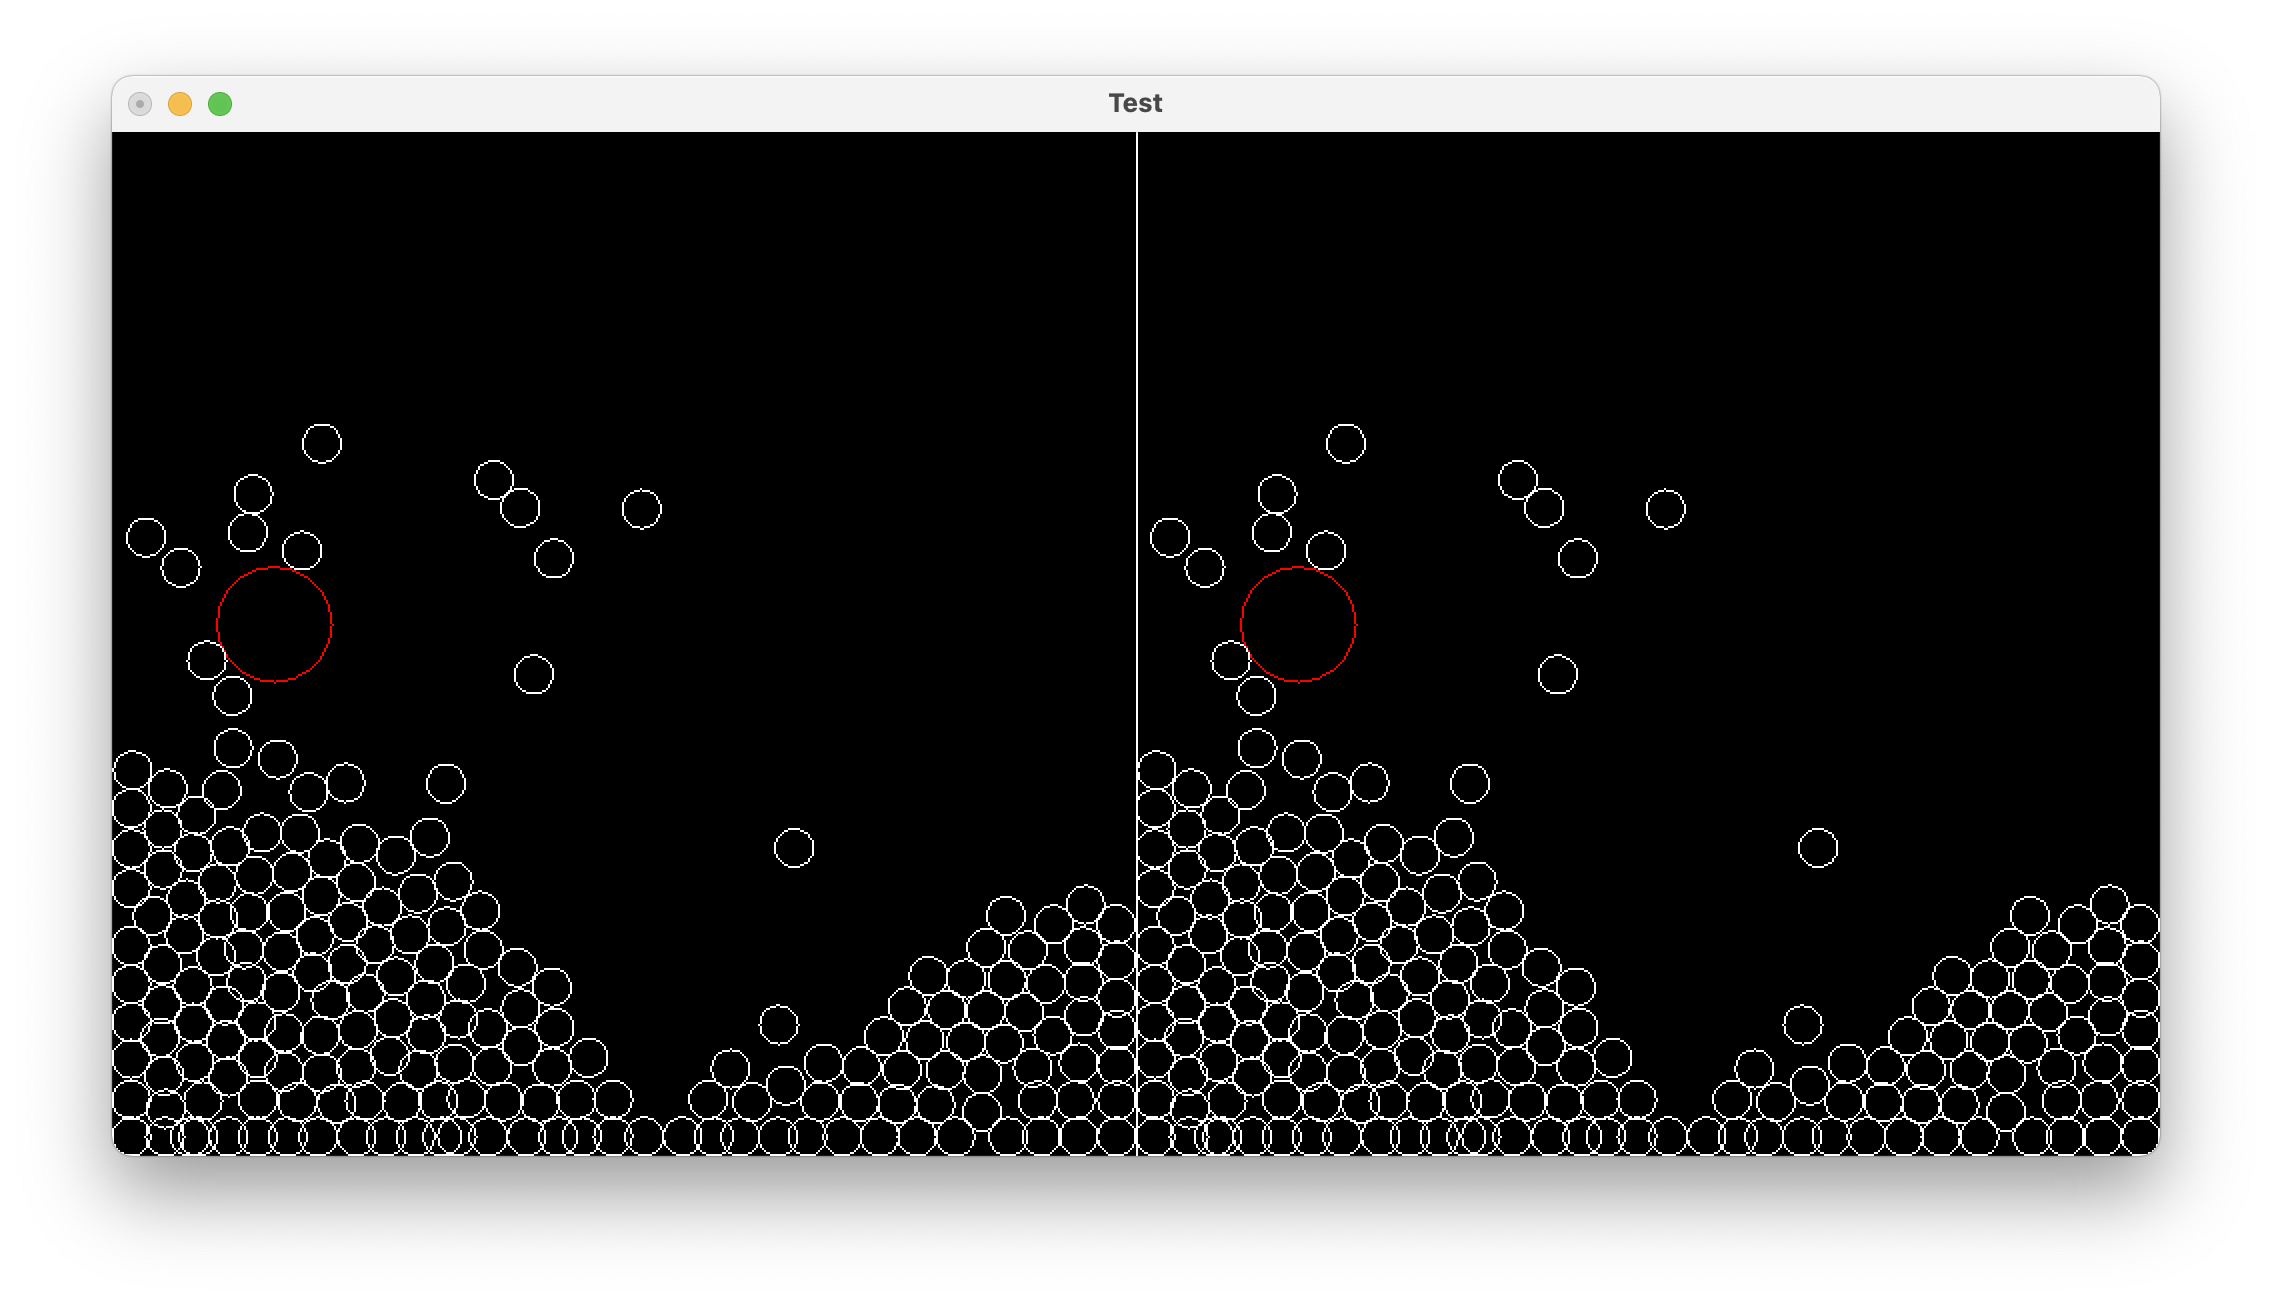
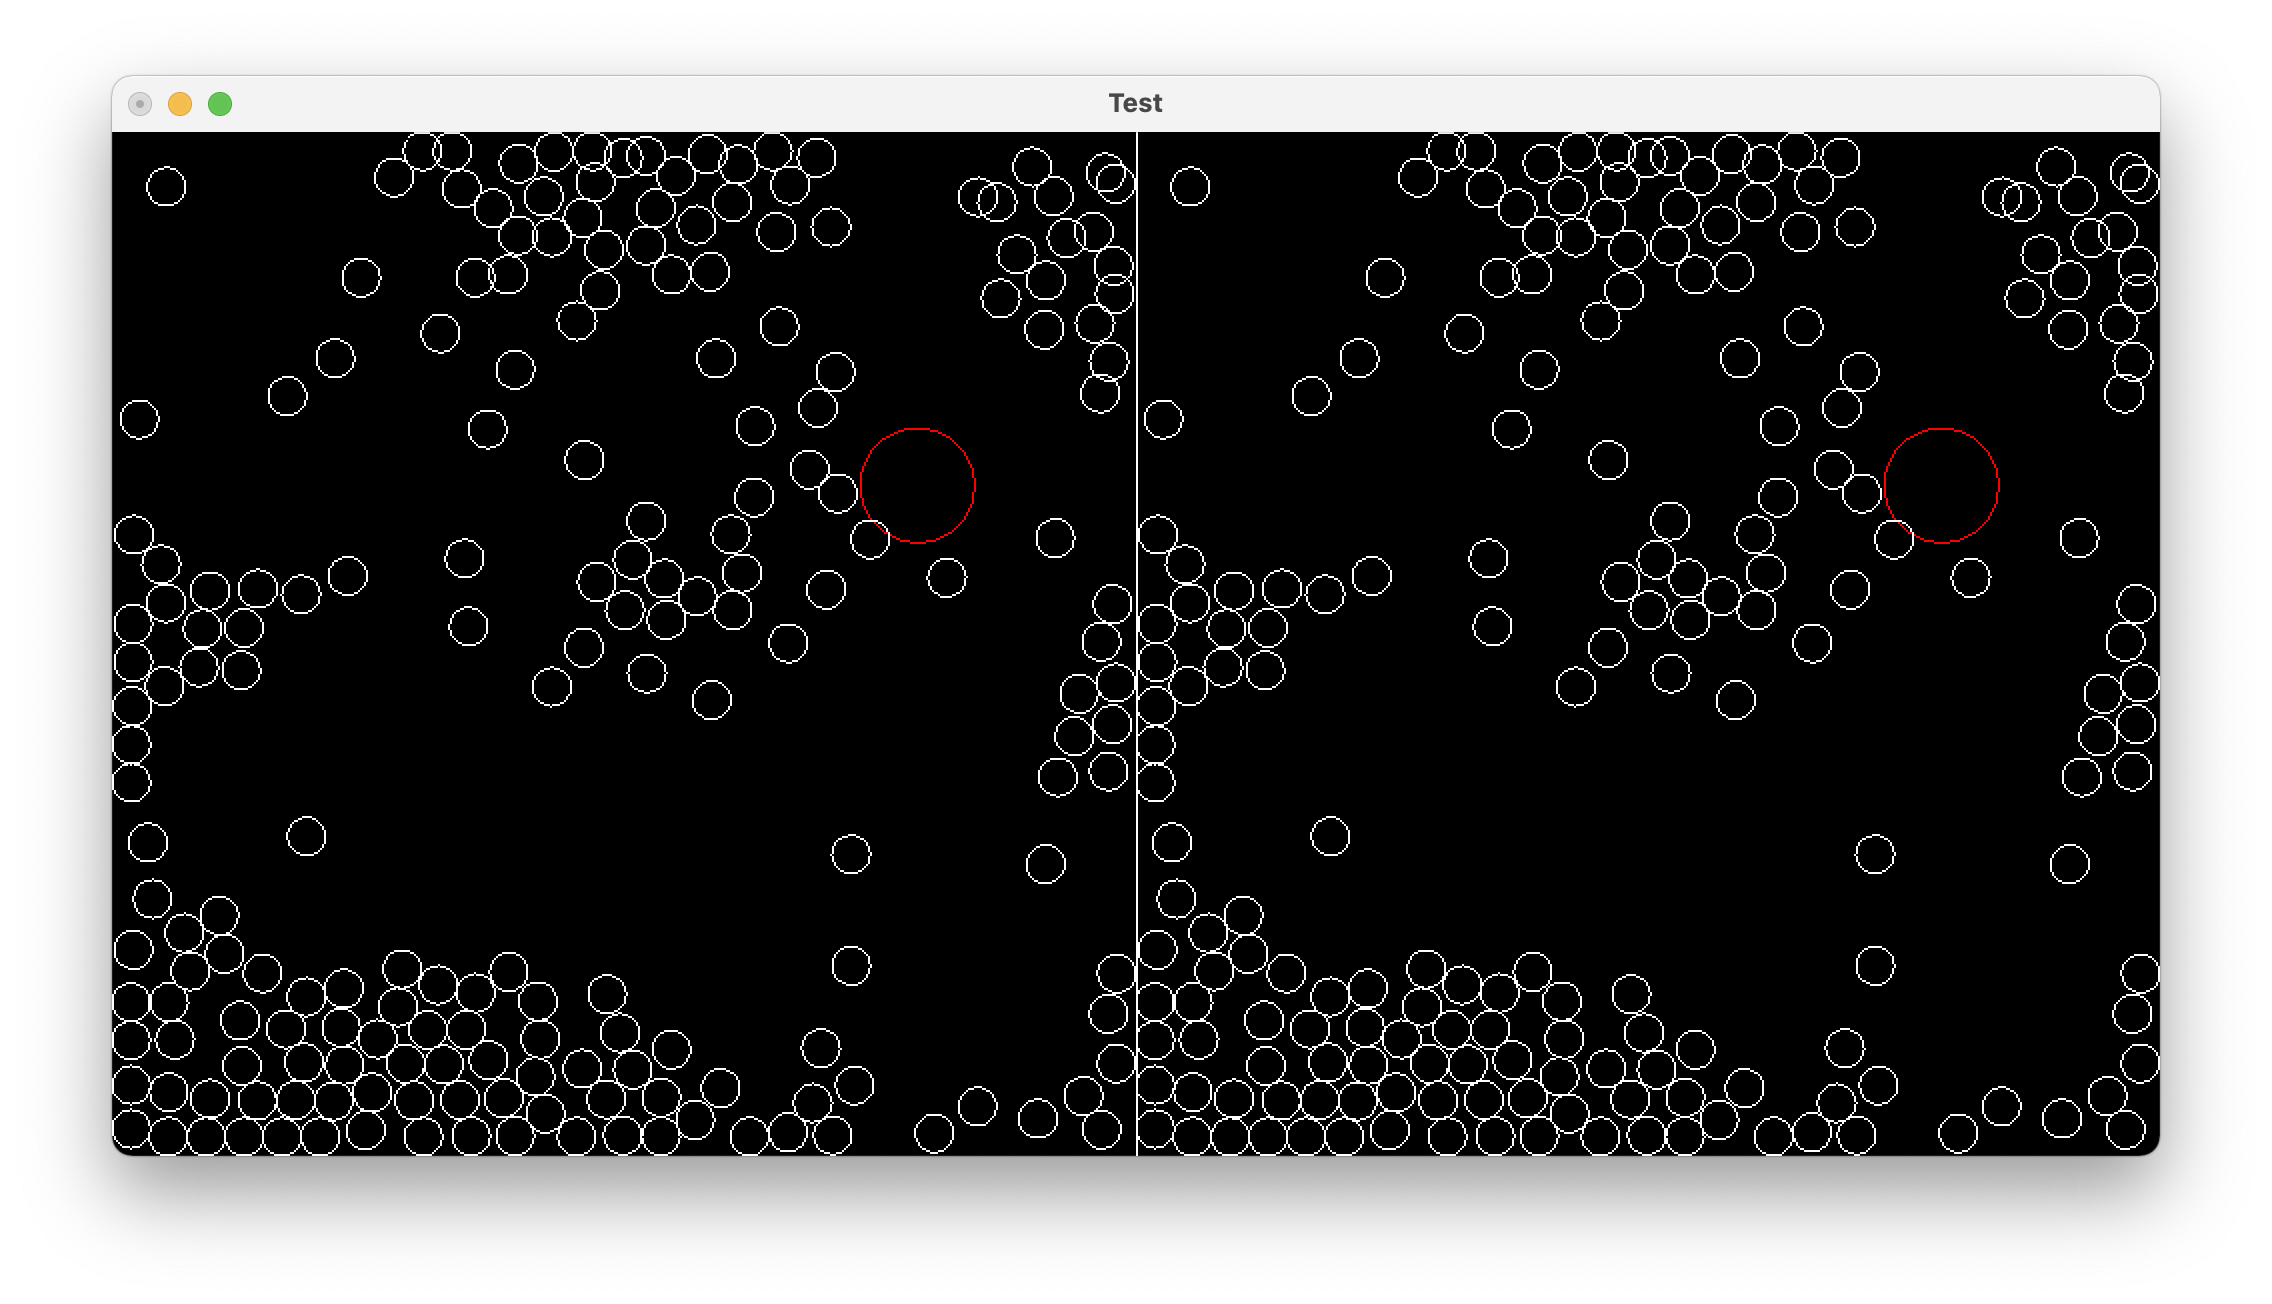
Code cleanup

diff --git a/physicsTest/main.cpp b/physicsTest/main.cpp
@@ -14,100 +14,19 @@
 #include <math.h>
 #include <vector>
 #include <ctime>
+#include "Vec.h"
+#include "Physics.hpp"
 
 using namespace std;
 static int win = 0;
 
-
 #define RADIUS 600
 #define NUM_OBJECTS 200
-#define GRAVITY 1
+#define GRAVITY 0
 #define NUM_SEGMENTS 20
-
-#include "Vec.h"
-
-class Unit
-{
-public:
-    Unit() {};
-    ~Unit() {};
-    Vec m_Pos;
-    Vec m_Velocity;
-    int m_Radius;
-    int m_Mass;
-    int m_OrderNumber;
-};
 
 std::vector<Unit*> units1;
 std::vector<Unit*> units2;
-
-struct Manifold
-{
-    Unit* A;
-    Unit* B;
-    int penetration;
-    Vec normal;
-};
-
-void menuCallback(int);
-void DrawScene(std::vector<Unit*>, float offset, bool pushRed);
-
-bool CreateManifold(Manifold* m)
-{
-    Unit* A = m->A;
-    Unit* B = m->B;
-    Vec normal = B->m_Pos - A->m_Pos;
-    int radius = A->m_Radius + B->m_Radius;
- 
-    if (normal.GetLengthSquared() > radius * radius) return false;
-    
-    int distance = normal.GetLength();
- 
-    if (distance != 0)
-    {
-        m->penetration = (radius - distance);
-        m->normal = normal * Vec::SCALE / distance;
-        return true;
-    }
-    else
-    {
-        m->penetration = A->m_Radius;
-        m->normal = Vec(Vec::SCALE, 0);
-        return true;
-    }
-}
-
-
-void ResolveCollision(Unit* a, Unit* b)
-{
-    Manifold m;
-    
-    m.A = a;
-    m.B = b;
-    
-    // Adapted from https://gamedevelopment.tutsplus.com/tutorials/how-to-create-a-custom-2d-physics-engine-the-basics-and-impulse-resolution--gamedev-6331
-    
-    if (CreateManifold(&m))
-    {
-        // relative velocity
-        Vec rVelocity = b->m_Velocity - a->m_Velocity;
-        
-        int velAlongNormal = rVelocity.Dot(m.normal) / Vec::SCALE;
-
-        if (velAlongNormal > 0) return; // if bodies are separating, don't resolve
-        
-        int inverseMassSum = (a->m_Mass + b->m_Mass);
-        int j;
-
-        if (inverseMassSum != 0)
-        {
-            j = -Vec::SCALE * velAlongNormal / inverseMassSum + m.penetration;
-            Vec impulse = (m.normal * j / Vec::SCALE);
-            a->m_Velocity -= (impulse * a->m_Mass) / Vec::SCALE;
-            b->m_Velocity += (impulse * b->m_Mass) / Vec::SCALE;
-        }
-    }
-}
 
 
 void DrawCircle(float x, float y, float r)
@@ -120,57 +39,7 @@ void DrawCircle(float x, float y, float r)
     glEnd();
 }
 
-
-void display()
-{
-    glClear(GL_COLOR_BUFFER_BIT | GL_DEPTH_BUFFER_BIT);
-
-    glMatrixMode(GL_PROJECTION);
-    glLoadIdentity();
-    glOrtho(-32, 32, -16, 16, -1.0, 1.0);
-
-    glMatrixMode(GL_MODELVIEW);
-    glLoadIdentity();
-    
-    static clock_t timer = clock();
-    bool pushRed = false;
-    if (clock() > timer + 1000000)
-    {
-        timer = clock();
-        pushRed = true;
-    }
-
-    DrawScene(units1, -16.0f, pushRed);
-    DrawScene(units2, 16.0f, pushRed);
-    
-    glBegin(GL_LINES);
-    glVertex2f(0.0f, -16.0f);
-    glVertex2f(0.0f, 16.0f);
-    glEnd();
-
-    glutSwapBuffers();
-}
-
-
-void ResolveCollisions(std::vector<Unit*> units)
-{
-    int processedUntil = 0;
-    
-    for (auto unit : units)
-    {
-        for (auto otherUnit : units)
-        {
-            if (unit != otherUnit && otherUnit->m_OrderNumber > processedUntil)
-            {
-                ResolveCollision(unit, otherUnit);
-            }
-        }
-        processedUntil = unit->m_OrderNumber;
-    }
-}
-
-
-void DrawScene(std::vector<Unit*> units, float offset, bool pushRed)
+void ProcessUnits(std::vector<Unit*> units, int pushRed)
 {
     for (auto unit : units)
     {
@@ -205,12 +74,16 @@ void DrawScene(std::vector<Unit*> units, float offset, bool pushRed)
     
     if (pushRed)
     {
-        units[0]->m_Velocity.x += 200;
+        if (pushRed == 1) units[0]->m_Velocity.x += 300;
+        else units[0]->m_Velocity.x -= 300;
         units[0]->m_Velocity.y += 500;
     }
-        
-    ResolveCollisions(units);
 
+    ResolveCollisions(units);
+}
+
+void DrawScene(std::vector<Unit*> units, float offset)
+{
     glColor3f(1.0f, 0.0f, 0.0f);
     
     for (auto u : units)
@@ -222,6 +95,39 @@ void DrawScene(std::vector<Unit*> units, float offset, bool pushRed)
     }
     
     glEnd();
+}
+
+void display()
+{
+    glClear(GL_COLOR_BUFFER_BIT | GL_DEPTH_BUFFER_BIT);
+
+    glMatrixMode(GL_PROJECTION);
+    glLoadIdentity();
+    glOrtho(-32, 32, -16, 16, -1.0, 1.0);
+
+    glMatrixMode(GL_MODELVIEW);
+    glLoadIdentity();
+    
+    static clock_t timer = clock();
+    int pushRed = 0;
+    if (clock() > timer + 1000000)
+    {
+        timer = clock();
+        pushRed = (rand() % 1) + 1;
+    }
+
+    ProcessUnits(units1, pushRed);
+    DrawScene(units1, -16.0f);
+    
+    ProcessUnits(units2, pushRed);
+    DrawScene(units2, 16.0f);
+    
+    glBegin(GL_LINES);
+    glVertex2f(0.0f, -16.0f);
+    glVertex2f(0.0f, 16.0f);
+    glEnd();
+
+    glutSwapBuffers();
 }
 
 void idle()
@@ -248,7 +154,6 @@ void CreateGlutCallbacks()
     glutIdleFunc(idle);
 }
 
-
 void InitOpenGL()
 {
     glDisable(GL_DEPTH_TEST);
@@ -262,13 +167,8 @@ void ExitGlut()
     exit(0);
 }
 
-int main (int argc, char **argv)
+void Precalc()
 {
-    glutInit(&argc, argv); 
-    CreateGlutWindow();
-    CreateGlutCallbacks();
-    InitOpenGL();
-    
     for (int i = 0; i < NUM_OBJECTS; i++)
     {
         Unit* u1 = new Unit();
@@ -295,9 +195,18 @@ int main (int argc, char **argv)
         u2->m_OrderNumber = u1->m_OrderNumber;
         units2.push_back(u2);
     }
+}
+
+int main (int argc, char **argv)
+{
+    glutInit(&argc, argv); 
+    CreateGlutWindow();
+    CreateGlutCallbacks();
+    InitOpenGL();
+    Precalc();
     
     glutMainLoop();
     
     ExitGlut();
-    return 0;		
+    return 0;
 }

diff --git a/physicsTest/Physics.cpp b/physicsTest/Physics.cpp
@@ -1,0 +1,75 @@
+#include "Physics.hpp"
+
+bool CreateManifold(Manifold* m)
+{
+    Unit* A = m->A;
+    Unit* B = m->B;
+    Vec normal = B->m_Pos - A->m_Pos;
+    int radius = A->m_Radius + B->m_Radius;
+ 
+    if (normal.GetLengthSquared() > radius * radius) return false;
+    
+    int distance = normal.GetLength();
+ 
+    if (distance != 0)
+    {
+        m->penetration = (radius - distance);
+        m->normal = normal * Vec::SCALE / distance;
+        return true;
+    }
+    else
+    {
+        m->penetration = A->m_Radius;
+        m->normal = Vec(Vec::SCALE, 0);
+        return true;
+    }
+}
+
+void ResolveCollision(Unit* a, Unit* b)
+{
+    Manifold m;
+    
+    m.A = a;
+    m.B = b;
+    
+    // Adapted from https://gamedevelopment.tutsplus.com/tutorials/how-to-create-a-custom-2d-physics-engine-the-basics-and-impulse-resolution--gamedev-6331
+    
+    if (CreateManifold(&m))
+    {
+        // relative velocity
+        Vec rVelocity = b->m_Velocity - a->m_Velocity;
+        
+        int velAlongNormal = rVelocity.Dot(m.normal) / Vec::SCALE;
+
+        if (velAlongNormal > 0) return; // if bodies are separating, don't resolve
+        
+        int inverseMassSum = (a->m_Mass + b->m_Mass);
+        int j;
+
+        if (inverseMassSum != 0)
+        {
+            j = -Vec::SCALE * velAlongNormal / inverseMassSum + m.penetration;
+            Vec impulse = (m.normal * j / Vec::SCALE);
+            a->m_Velocity -= (impulse * a->m_Mass) / Vec::SCALE;
+            b->m_Velocity += (impulse * b->m_Mass) / Vec::SCALE;
+        }
+    }
+}
+
+
+void ResolveCollisions(std::vector<Unit*> units)
+{
+    int processedUntil = 0;
+    
+    for (auto unit : units)
+    {
+        for (auto otherUnit : units)
+        {
+            if (unit != otherUnit && otherUnit->m_OrderNumber > processedUntil)
+            {
+                ResolveCollision(unit, otherUnit);
+            }
+        }
+        processedUntil = unit->m_OrderNumber;
+    }
+}

diff --git a/physicsTest/Physics.hpp b/physicsTest/Physics.hpp
@@ -1,0 +1,30 @@
+#ifndef Physics_hpp
+#define Physics_hpp
+
+#include "Vec.h"
+#include <math.h>
+#include <vector>
+
+class Unit
+{
+public:
+    Unit() {};
+    ~Unit() {};
+    Vec m_Pos;
+    Vec m_Velocity;
+    int m_Radius;
+    int m_Mass;
+    int m_OrderNumber;
+};
+
+struct Manifold
+{
+    Unit* A;
+    Unit* B;
+    int penetration;
+    Vec normal;
+};
+
+void ResolveCollisions(std::vector<Unit*> units);
+
+#endif /* Physics_hpp */
